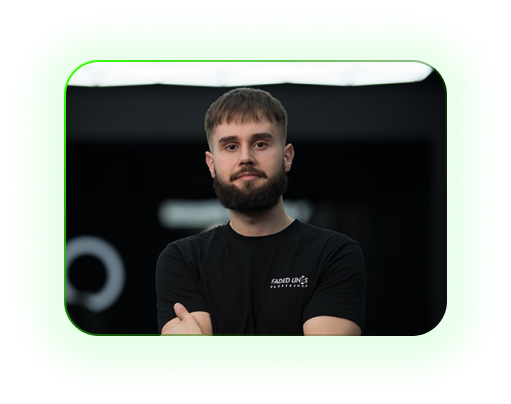
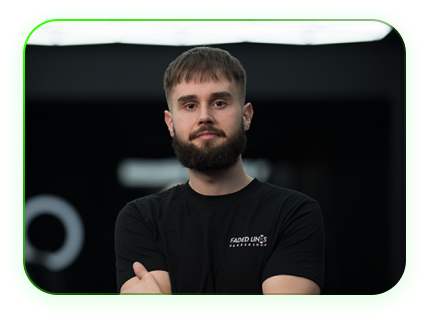
hotfix : decrease the green glow

diff --git a/src/pages/aboutUs.tsx b/src/pages/aboutUs.tsx
@@ -244,7 +244,7 @@ export default function AboutUs() {
                         </div>
 
                         <div className="flex flex-col md:flex-row  self-center gap-4 py-12 md:pl-[15vw] ">
-                            <Button variant={"ghost"} className="rounded-2xl w-full md:w-32 font-extrabold border-[#14FF00] border text-lg py-6 px-2 hover:bg-[#14FF00] shadow-lg hover:shadow-[#14FF00] hover:scale-110 transition-transform duration-500 ease-in-out backdrop-blur-lg hover:text-black" style={{ backdropFilter: 'blur(16px) contrast(100%) uppercase', WebkitBackdropFilter: 'blur(16px) contrast(100%)' }}>
+                            <Button variant={"ghost"} className="rounded-2xl w-full md:w-32 font-extrabold border-[#14FF00] border text-lg py-6 px-2 hover:bg-[#14FF00] shadow-md hover:shadow-[#14FF00] hover:scale-110 transition-transform duration-500 ease-in-out backdrop-blur-lg hover:text-black" style={{ backdropFilter: 'blur(16px) contrast(100%) uppercase', WebkitBackdropFilter: 'blur(16px) contrast(100%)' }}>
                                 Book Now
                             </Button>
 
